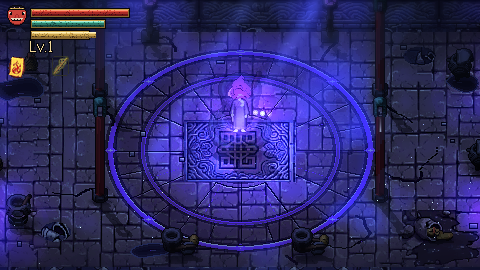
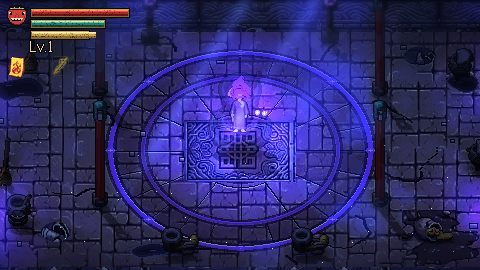
아트 굴3: den3 소품 좌표 소폭 조정(기둥 y126/274·빗자루 84,247)으로 overlap 0건, README·최종 캡처 — art_walk 12맵·ch2_aggro 9·ch2 시나리오 5·smoke 13·save 42·ch1 6·combat 11 PASS

diff --git a/production/qa/asset-import/ch2-den3/README.md b/production/qa/asset-import/ch2-den3/README.md
@@ -1,0 +1,7 @@
+# 굴3(den3) 두억시니의 방 — 전용 지형 (아트팀-굴3지형, 브랜치 asset/ch2-den3-terrain)
+
+M2 의 코드 판석 바닥을 일러스트 소재 리페인트로 교체. 걷기 기하(`ch2m2_maps.MAPS['den3']`)·충돌 `den3.json`(origin/main 과 diff 0)·gate/spawn/exit/anchors/mortar_altar/횃불/기타 소품은 그대로다.
+- 생성: `python3 art/ch2den3_terrain.py` (den3 만 다시 만든다). 바닥 = dungeon 원본의 진짜 바닥 퀼팅(뒤집기 포함)+보라회색 톤, 의식대(타원 r40/r98/r130, 섹터 석판, 보라 상감선, 소환점 8 = 45도·r130, 설계서 §4.6), 제단에서 방사하는 균열, 검은 물웅덩이, 북·남 벽 = den1 파도문 프리즈 띠, 서·동 벽 = 같은 갓돌 줄을 세운 것.
+- levels.gd 변경(den3 소품 좌표만): 기둥 y 129→126 / 269→274 (기둥 두 쌍 24px 겹침 해소), `old_tools_broom` (75,227)→(84,247) (gate 트리거와 충돌 겹침 해소). 엄폐 의도(4기둥 사각 배치)는 유지.
+- 캡처: `before/` `after/`(게임 안), `compare_den3_*_4x.png`(원본 PNG 4배 전/후), `overlay_den3.png`(걷기 마스크 경계 빨강 = 그림의 벽 안쪽 가장자리와 일치).
+- 한계: 바닥 판석 격자가 균일하게 촘촘함(원본 큰 판석보다 작게 읽힘), 검은 웅덩이 4곳 중 3곳은 코드 도형(항아리 있는 1곳만 원본 스탬프), ambient 0.34 + 점광원 때문에 게임 안에서는 여전히 푸른 보라로 보인다(톤은 보라회색으로 옮겼으나 ambient 는 불변).
